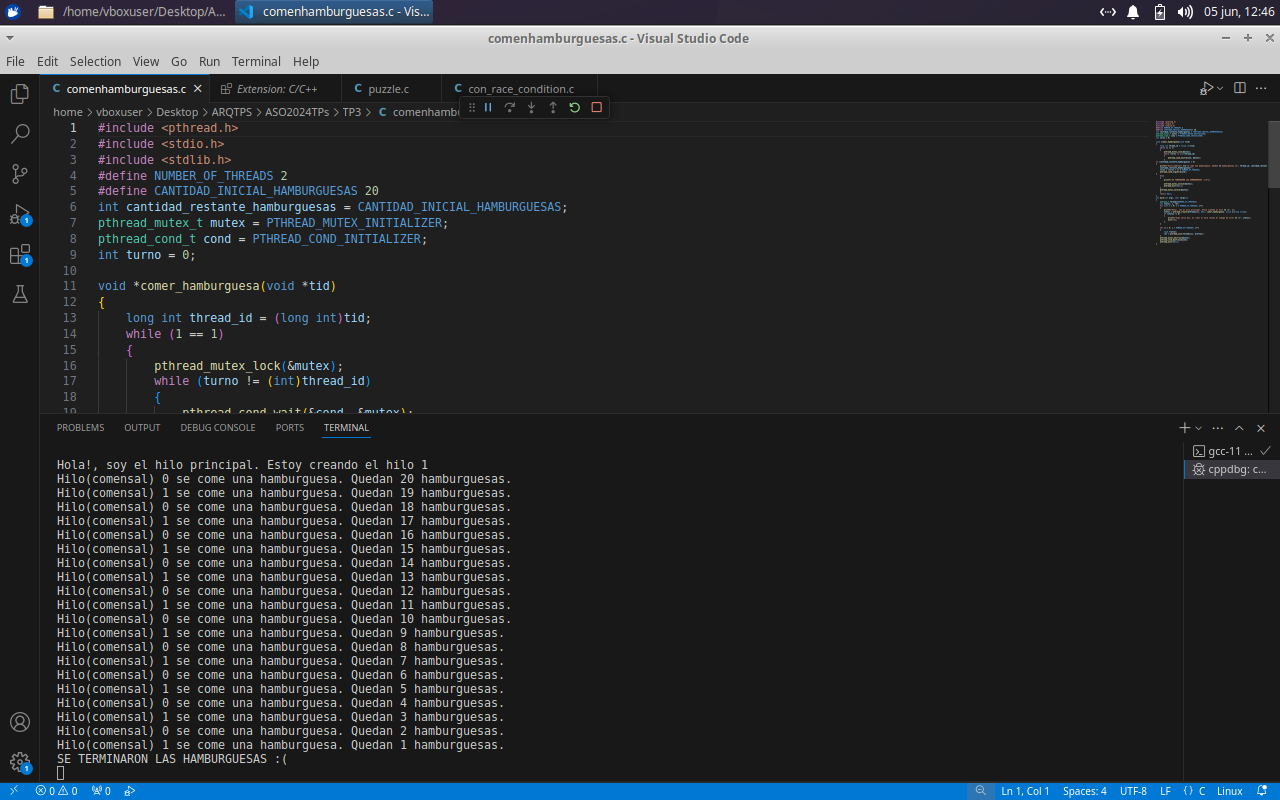
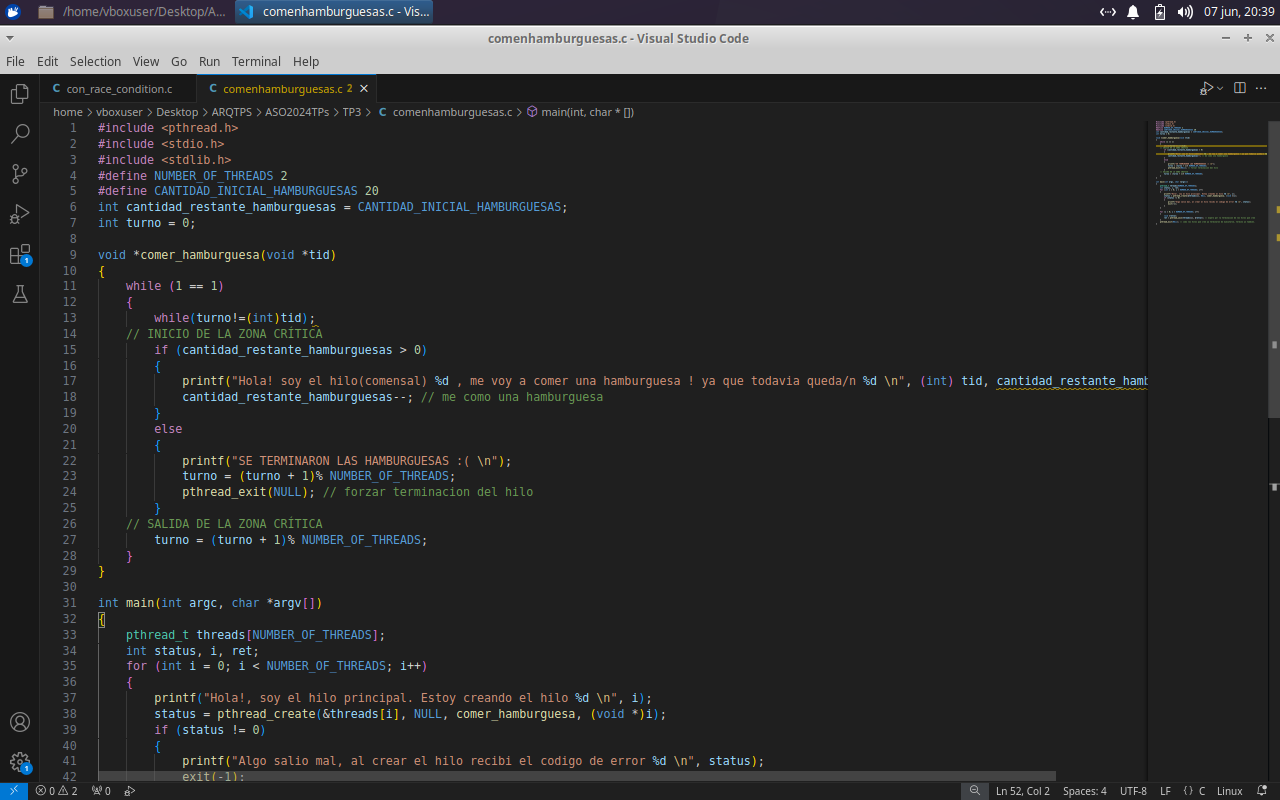
corrigiendo TP3

diff --git a/TP3/comenhamburguesas.c b/TP3/comenhamburguesas.c
@@ -4,59 +4,49 @@
 #define NUMBER_OF_THREADS 2
 #define CANTIDAD_INICIAL_HAMBURGUESAS 20
 int cantidad_restante_hamburguesas = CANTIDAD_INICIAL_HAMBURGUESAS;
-pthread_mutex_t mutex = PTHREAD_MUTEX_INITIALIZER;
-pthread_cond_t cond = PTHREAD_COND_INITIALIZER;
 int turno = 0;
 
 void *comer_hamburguesa(void *tid)
 {
-    long int thread_id = (long int)tid;
-    while (1 == 1)
-    {
-        pthread_mutex_lock(&mutex);
-        while (turno != (int)thread_id) 
-        {
-            pthread_cond_wait(&cond, &mutex);
-        }
-if (cantidad_restante_hamburguesas > 0)
-{
-    printf("Hilo(comensal) %ld se come una hamburguesa. Quedan %d hamburguesas.\n", thread_id, cantidad_restante_hamburguesas);
-    cantidad_restante_hamburguesas--;
-    turno = (turno + 1) % NUMBER_OF_THREADS;
-    pthread_cond_signal(&cond); 
-} 
-    else 
-    {
-        printf("SE TERMINARON LAS HAMBURGUESAS :(\n");
-        
-        pthread_mutex_unlock(&mutex);
-        pthread_exit(NULL);
-    }
-    pthread_mutex_unlock(&mutex);
-    } 
-    return NULL;
+	while (1 == 1)
+	{ 
+		while(turno!=(int)tid);
+    // INICIO DE LA ZONA CRÍTICA
+		if (cantidad_restante_hamburguesas > 0)
+		{
+			printf("Hola! soy el hilo(comensal) %d , me voy a comer una hamburguesa ! ya que todavia queda/n %d \n", (int) tid, cantidad_restante_hamburguesas);
+			cantidad_restante_hamburguesas--; // me como una hamburguesa
+		}
+		else
+		{
+			printf("SE TERMINARON LAS HAMBURGUESAS :( \n");
+            turno = (turno + 1)% NUMBER_OF_THREADS;
+			pthread_exit(NULL); // forzar terminacion del hilo
+		}
+    // SALIDA DE LA ZONA CRÍTICA   
+        turno = (turno + 1)% NUMBER_OF_THREADS;
+	}
 }
-int main(int argc, char *argv[])
-{ 
-    pthread_t threads[NUMBER_OF_THREADS];
-    int status, i, ret;
-    for (int i = 0; i < NUMBER_OF_THREADS; i++)
-    { 
-        printf("Hola!, soy el hilo principal. Estoy creando el hilo %d \n", i);
-        status = pthread_create(&threads[i], NULL, comer_hamburguesa, (void *)(long int)i);
-        if (status != 0) 
-        {
-            printf("Algo salio mal, al crear el hilo recibi el codigo de error %d \n", status);
-            exit(-1);
-        }
-    }
 
-    for (i = 0; i < NUMBER_OF_THREADS; i++) 
-    {
-        void *retval;
-        ret = pthread_join(threads[i], &retval); 
-    }
-    pthread_mutex_destroy(&mutex);
-    pthread_cond_destroy(&cond);
-    pthread_exit(NULL); 
-} 
+int main(int argc, char *argv[])
+{
+	pthread_t threads[NUMBER_OF_THREADS];
+	int status, i, ret;
+	for (int i = 0; i < NUMBER_OF_THREADS; i++)
+	{
+		printf("Hola!, soy el hilo principal. Estoy creando el hilo %d \n", i);
+		status = pthread_create(&threads[i], NULL, comer_hamburguesa, (void *)i);
+		if (status != 0)
+		{
+			printf("Algo salio mal, al crear el hilo recibi el codigo de error %d \n", status);
+			exit(-1);
+		}
+	}
+
+	for (i = 0; i < NUMBER_OF_THREADS; i++)
+	{
+		void *retval;
+		ret = pthread_join(threads[i], &retval); // espero por la terminacion de los hilos que cree
+	}
+	pthread_exit(NULL); // como los hilos que cree ya terminaron de ejecutarse, termino yo tambien.
+}
